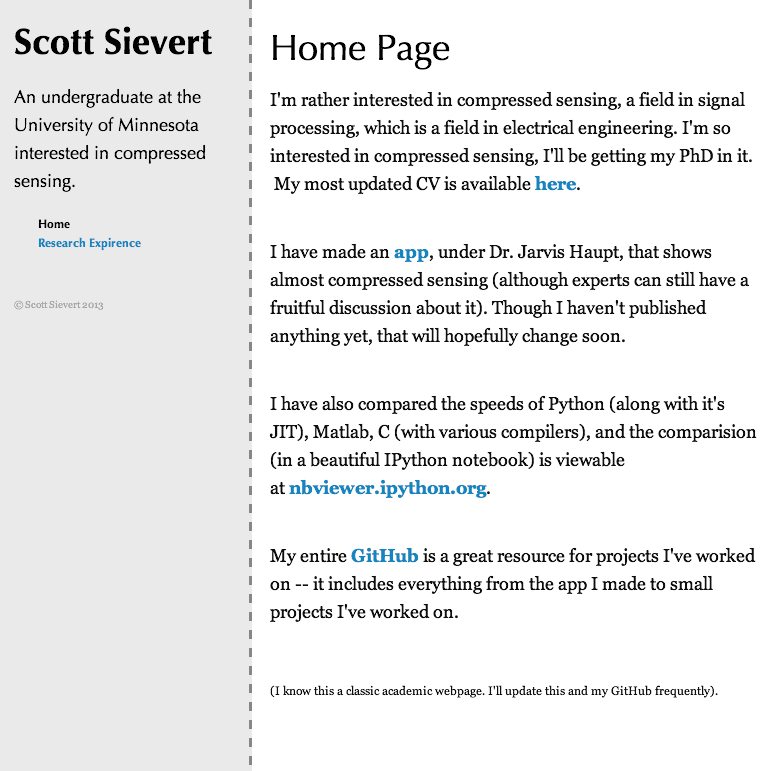
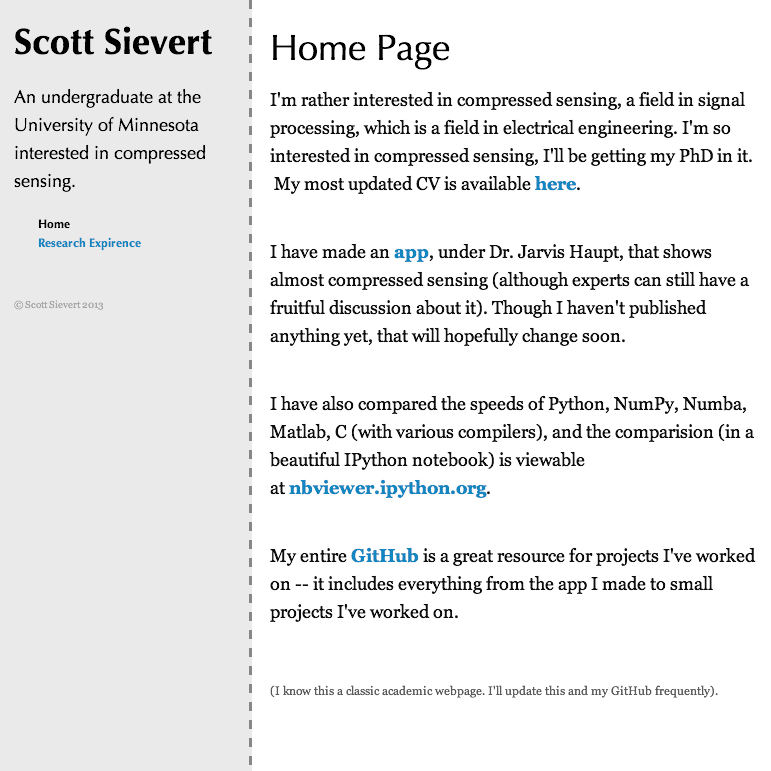
I'll use GitHub pages instead.

diff --git a/website/Scott Sievert.sandvox/QuickLook/Preview.html b/website/Scott Sievert.sandvox/QuickLook/Preview.html
@@ -140,7 +140,7 @@
 							<div class="article">
 								<div class="article-content">
 									<div class="RichTextElement">
-										<div><p><span style="font-size: 18px; ">I'm rather interested in compressed sensing, a field in signal processing, which is a field in electrical engineering. I'm so interested in compressed sensing, I'll be getting my PhD in it.  My most updated CV is available <a href="https://www.dropbox.com/s/9s4yvz6mjc7x41a/CV.pdf">here</a>.</span></p><p><span style="font-size: 18px; "><br /></span></p><p><span style="font-size: 18px; ">I have made an <a href="https://github.com/scottsievert/UROPv6">app</a>, under Dr. Jarvis Haupt, that shows almost compressed sensing (although experts can still have a fruitful discussion about it). Though I haven't published anything yet, that will hopefully change soon.</span></p><p><span style="font-size: 18px; "><br /></span></p><p><span style="font-size: 18px; ">I have also compared the speeds of Python (along with it's JIT), Matlab, C (with various compilers), and the comparision (in a beautiful IPython notebook) is viewable at <a href="http://nbviewer.ipython.org/urls/raw.github.com/scottsievert/side-projects/master/matlab_vs_python/Python%2520vs%2520Numba%2520vs%2520Matlab%2520vs%2520C.ipynb">nbviewer.ipython.org</a>.</span></p><p><span style="font-size: 18px; "><br /></span></p><p><span style="font-size: 18px; ">My entire <a href="https://github.com/scottsievert?tab=repositories">GitHub</a> is a great resource for projects I've worked on -- it includes everything from the app I made to small projects I've worked on.</span></p><p><br /></p><p><br /></p><p>(I know this a classic academic webpage. I'll update this and my GitHub frequently).</p><p><br /></p><p><br /></p><p><br /></p><p><br /></p><p><br /></p><p><br /></p><p><span style="color: rgb(180, 180, 180); font-size: 10px; font-family: Georgia; ">updated on 2013-07-05</span></p>
+										<div><p><span style="font-size: 18px; ">I'm rather interested in compressed sensing, a field in signal processing, which is a field in electrical engineering. I'm so interested in compressed sensing, I'll be getting my PhD in it.  My most updated CV is available <a href="https://www.dropbox.com/s/9s4yvz6mjc7x41a/CV.pdf">here</a>.</span></p><p><span style="font-size: 18px; "><br /></span></p><p><span style="font-size: 18px; ">I have made an <a href="https://github.com/scottsievert/UROPv6">app</a>, under Dr. Jarvis Haupt, that shows almost compressed sensing (although experts can still have a fruitful discussion about it). Though I haven't published anything yet, that will hopefully change soon.</span></p><p><span style="font-size: 18px; "><br /></span></p><p><span style="font-size: 18px; ">I have also compared the speeds of Python, NumPy, Numba, Matlab, C (with various compilers), and the comparision (in a beautiful IPython notebook) is viewable at <a href="http://nbviewer.ipython.org/urls/raw.github.com/scottsievert/side-projects/master/matlab_vs_python/Python%2520vs%2520Numba%2520vs%2520Matlab%2520vs%2520C.ipynb">nbviewer.ipython.org</a>.</span></p><p><span style="font-size: 18px; "><br /></span></p><p><span style="font-size: 18px; ">My entire <a href="https://github.com/scottsievert?tab=repositories">GitHub</a> is a great resource for projects I've worked on -- it includes everything from the app I made to small projects I've worked on.</span></p><p><br /></p><p><br /></p><p><span style="color: rgb(108, 108, 108); ">(I know this a classic academic webpage. I'll update this and my GitHub frequently).</span></p><p><br /></p><p><br /></p><p><br /></p><p><br /></p><p><br /></p><p><br /></p><p><span style="color: rgb(180, 180, 180); font-size: 10px; font-family: Georgia; ">updated on 2013-07-05</span></p>
 											</div>
 									</div>
 								</div> <!-- /article-content -->
@@ -210,7 +210,7 @@
 			</tr>
 			<tr>
 				<td class="quick-look-key">Last updated</td>
-				<td class="quick-look-value">Jul 5, 2013 11:15 AM</td>
+				<td class="quick-look-value">Jul 5, 2013 11:20 AM</td>
 			</tr>
 			<tr>
 				<td class="quick-look-key">Author</td>

diff --git a/website/index.html b/website/index.html
@@ -50,7 +50,7 @@
 							<div class="article">
 								<div class="article-content">
 									<div class="RichTextElement">
-										<div><p><span style="font-size: 18px; ">I'm rather interested in compressed sensing, a field in signal processing, which is a field in electrical engineering. I'm so interested in compressed sensing, I'll be getting my PhD in it.  My most updated CV is available <a href="https://www.dropbox.com/s/9s4yvz6mjc7x41a/CV.pdf">here</a>.</span></p><p><span style="font-size: 18px; "><br /></span></p><p><span style="font-size: 18px; ">I have made an <a href="https://github.com/scottsievert/UROPv6">app</a>, under Dr. Jarvis Haupt, that shows almost compressed sensing (although experts can still have a fruitful discussion about it). Though I haven't published anything yet, that will hopefully change soon.</span></p><p><span style="font-size: 18px; "><br /></span></p><p><span style="font-size: 18px; ">I have also compared the speeds of Python (along with it's JIT), Matlab, C (with various compilers), and the comparision (in a beautiful IPython notebook) is viewable at <a href="http://nbviewer.ipython.org/urls/raw.github.com/scottsievert/side-projects/master/matlab_vs_python/Python%2520vs%2520Numba%2520vs%2520Matlab%2520vs%2520C.ipynb">nbviewer.ipython.org</a>.</span></p><p><span style="font-size: 18px; "><br /></span></p><p><span style="font-size: 18px; ">My entire <a href="https://github.com/scottsievert?tab=repositories">GitHub</a> is a great resource for projects I've worked on -- it includes everything from the app I made to small projects I've worked on.</span></p><p><br /></p><p><br /></p><p>(I know this a classic academic webpage. I'll update this and my GitHub frequently).</p><p><br /></p><p><br /></p><p><br /></p><p><br /></p><p><br /></p><p><br /></p><p><span style="color: rgb(180, 180, 180); font-size: 10px; font-family: Georgia; ">updated on 2013-07-05</span></p>
+										<div><p><span style="font-size: 18px; ">I'm rather interested in compressed sensing, a field in signal processing, which is a field in electrical engineering. I'm so interested in compressed sensing, I'll be getting my PhD in it.  My most updated CV is available <a href="https://www.dropbox.com/s/9s4yvz6mjc7x41a/CV.pdf">here</a>.</span></p><p><span style="font-size: 18px; "><br /></span></p><p><span style="font-size: 18px; ">I have made an <a href="https://github.com/scottsievert/UROPv6">app</a>, under Dr. Jarvis Haupt, that shows almost compressed sensing (although experts can still have a fruitful discussion about it). Though I haven't published anything yet, that will hopefully change soon.</span></p><p><span style="font-size: 18px; "><br /></span></p><p><span style="font-size: 18px; ">I have also compared the speeds of Python, NumPy, Numba, Matlab, C (with various compilers), and the comparision (in a beautiful IPython notebook) is viewable at <a href="http://nbviewer.ipython.org/urls/raw.github.com/scottsievert/side-projects/master/matlab_vs_python/Python%2520vs%2520Numba%2520vs%2520Matlab%2520vs%2520C.ipynb">nbviewer.ipython.org</a>.</span></p><p><span style="font-size: 18px; "><br /></span></p><p><span style="font-size: 18px; ">My entire <a href="https://github.com/scottsievert?tab=repositories">GitHub</a> is a great resource for projects I've worked on -- it includes everything from the app I made to small projects I've worked on.</span></p><p><br /></p><p><br /></p><p><span style="color: rgb(108, 108, 108); ">(I know this a classic academic webpage. I'll update this and my GitHub frequently).</span></p><p><br /></p><p><br /></p><p><br /></p><p><br /></p><p><br /></p><p><br /></p><p><span style="color: rgb(180, 180, 180); font-size: 10px; font-family: Georgia; ">updated on 2013-07-05</span></p>
 											</div>
 									</div>
 								</div> <!-- /article-content -->
